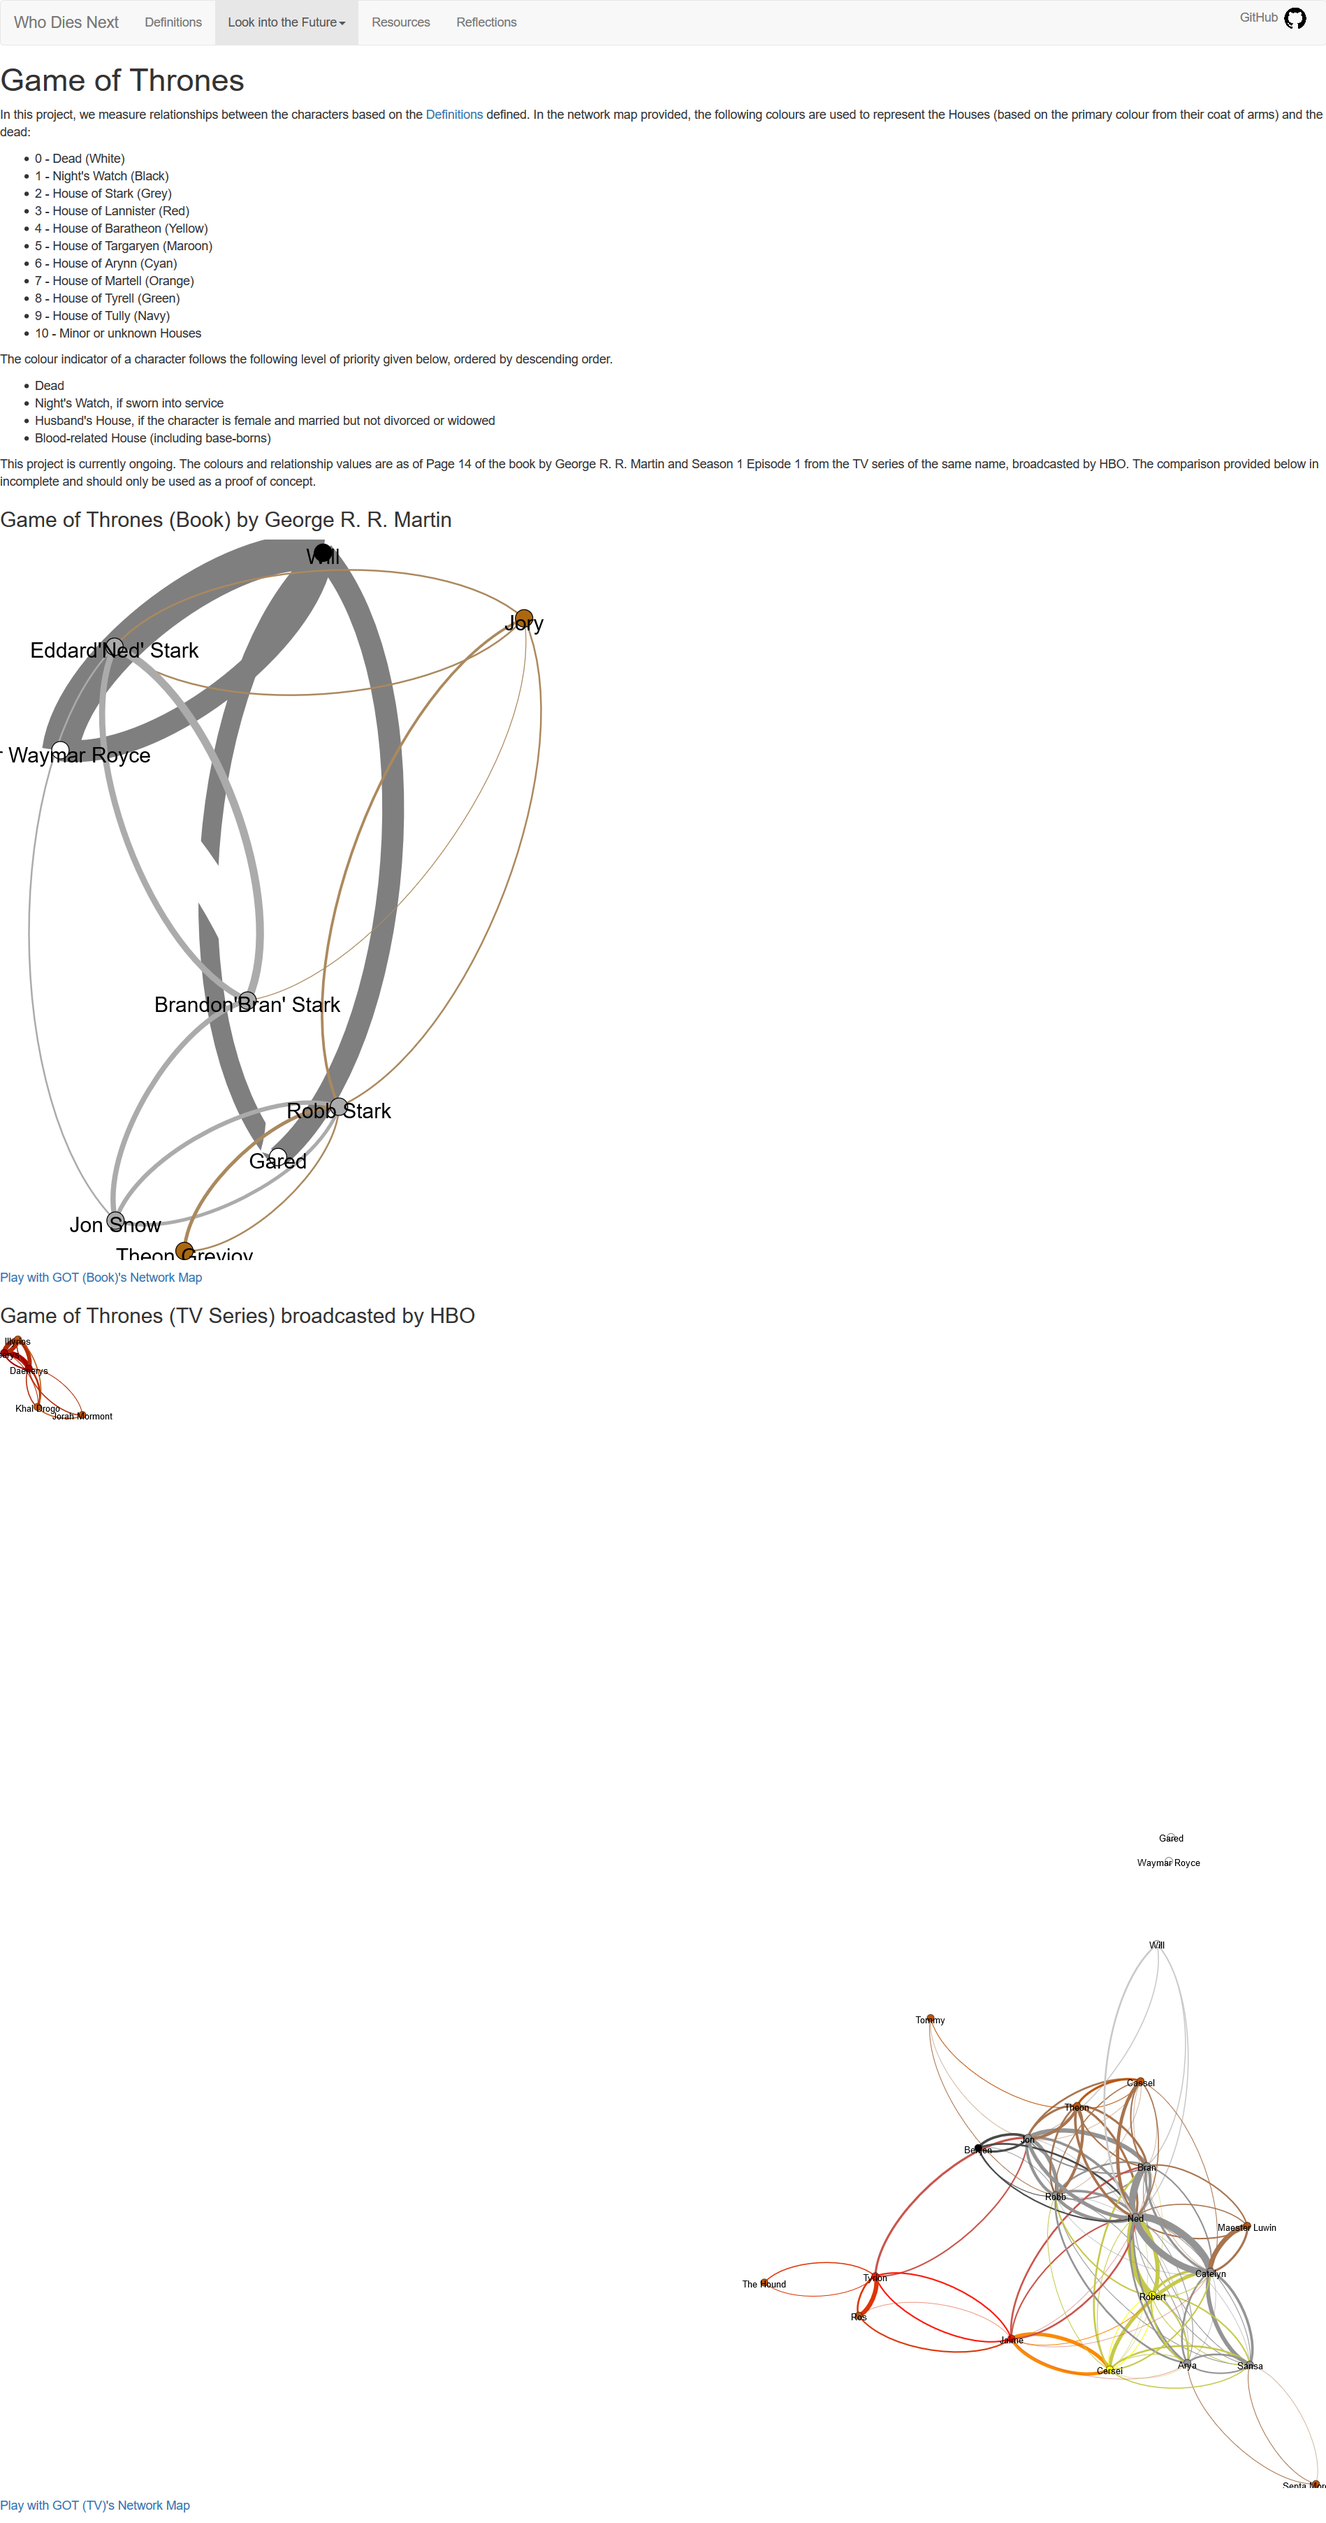
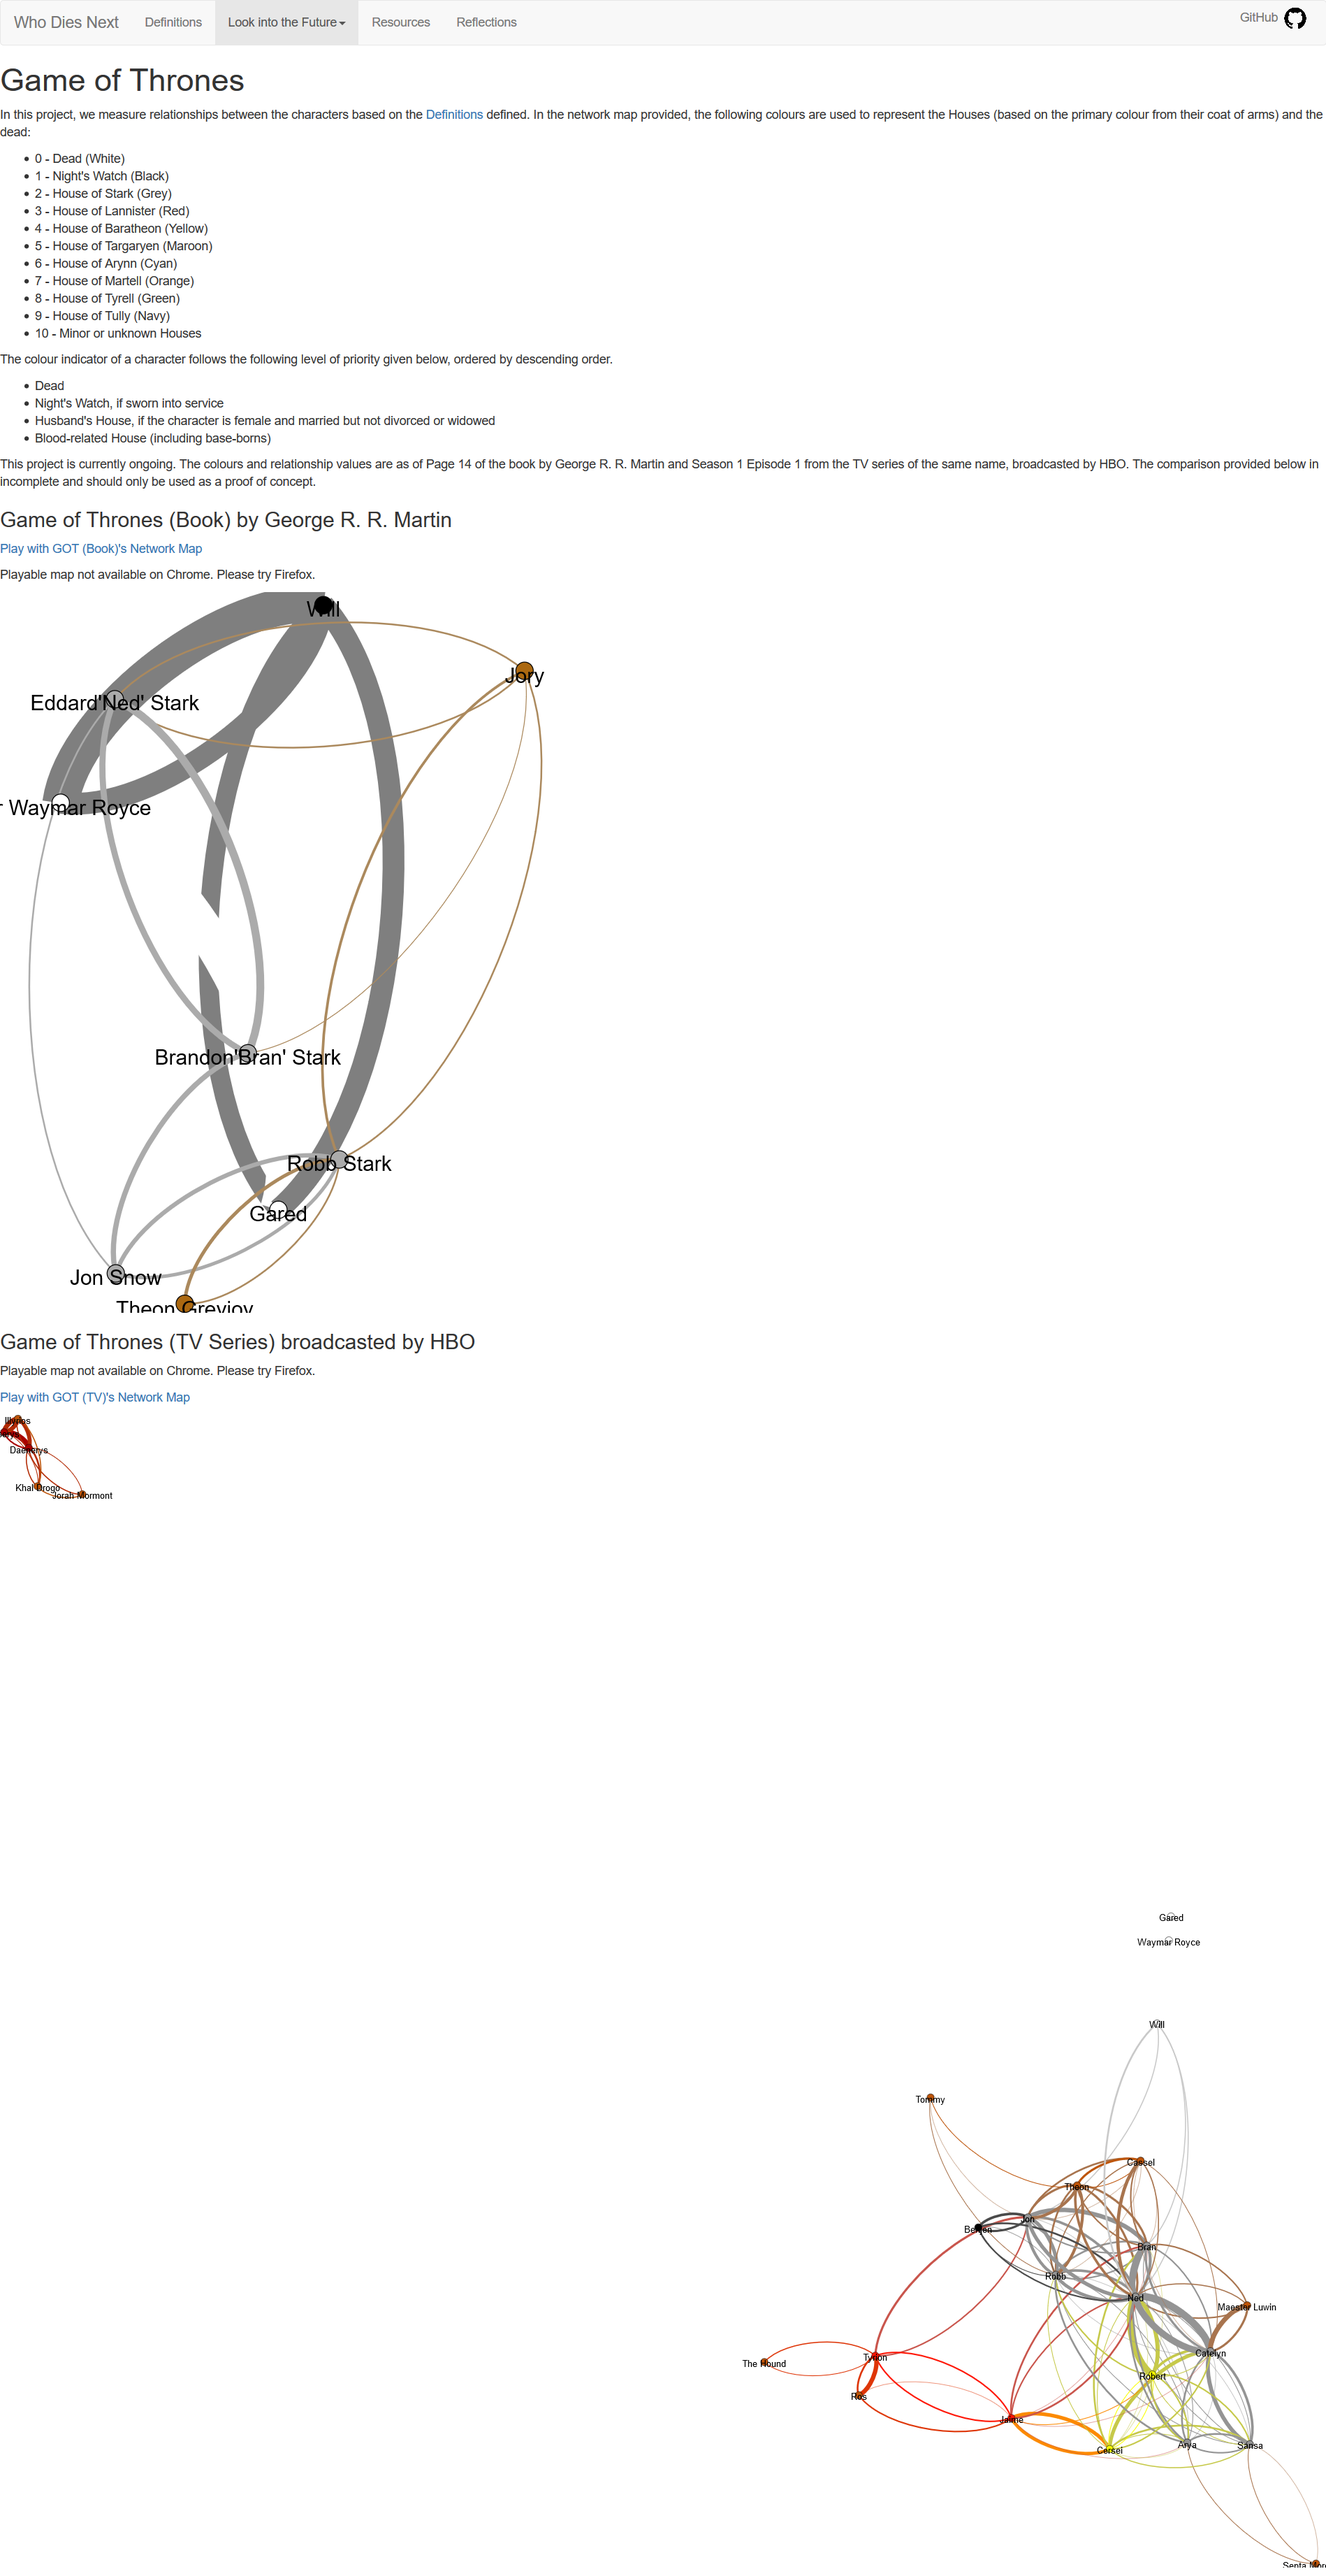
updated everything else

diff --git a/reflections.html b/reflections.html
@@ -106,8 +106,13 @@
     <p>With the growing capabilities of machine learning in artificial intelligence, I hope that this tool would be able to reach the stage where the user can upload a piece of text or video and the relevant network maps would be run-time generated. Computationally intensive and highly dependent on OCRs, voice and facial recognition, it is unlikely that Who Dies Next would be able to support this within the next 5 years, but I remain hopeful that this is the future that Who Dies Next would be working towards.</p>
 
     <h1>References</h1>
-    <p><a href="https://www.macalester.edu/~abeverid/thrones.html">A. Beveridge and J. Shan, "Network of Thrones," Math Horizons Magazine , Vol. 23, No. 4 (2016), pp. 18-22</a></p>
-    <p><a href=""></a></p>
+    <p><a href="https://www.macalester.edu/~abeverid/thrones.html">[1] A. Beveridge and J. Shan, "Network of Thrones," Math Horizons Magazine , Vol. 23, No. 4 (2016), pp. 18-22</a></p>
+
+    <p><a href="https://books.google.com.sg/books?redir_esc=y&id=nKdIB2Q58r0C&q=analysis#v=snippet&q=analysis&f=false">[2] Snyder M. H., “Analyzing Literature-to-Film Adaptations: A Novelist's Exploration and Guide”, A&amp;C Black, p 262</a></p>
+
+    <p><a href="https://infoscience.epfl.ch/record/210573/files/dh2015_infoscience.pdf">[3] Y. Rochat, “Character network analysis of Émile Zola’s Les Rougon-Macquart”, Digital Humanities 2015, EPFL-CONF-210573 (2015)/a></p>
+
+
     <!-- jQuery (necessary for Bootstrap's JavaScript plugins) -->
     <script src="https://ajax.googleapis.com/ajax/libs/jquery/1.12.4/jquery.min.js"></script>
     <!-- Include all compiled plugins (below), or include individual files as needed -->

diff --git a/got.html b/got.html
@@ -99,13 +99,14 @@
     <p>This project is currently ongoing. The colours and relationship values are as of Page 14 of the book by George R. R. Martin and Season 1 Episode 1 from the TV series of the same name, broadcasted by HBO. The comparison provided below in incomplete and should only be used as a proof of concept.</p>
 
     <h3>Game of Thrones (Book) by George R. R. Martin</h3>
-    <p><img src="got_book/got_book_map.svg" style="max-width: 100%"></p>
     <p><a href="got_book/got_book_map.html">Play with GOT (Book)'s Network Map</a></p>
-    <p></p>
+    <p> Playable map not available on Chrome. Please try Firefox. </p>
+    <p><img src="got_book/got_book_map.svg" style="max-width: 100%"></p>
 
     <h3>Game of Thrones (TV Series) broadcasted by HBO</h3>
-    <p><img src="got_tv/got_tv_map.svg" style="max-width: 100%"></p>
+    <p> Playable map not available on Chrome. Please try Firefox. </p>
     <p><a href="got_tv/got_tv_map.html">Play with GOT (TV)'s Network Map</a></p>
+    <p><img src="got_tv/got_tv_map.svg" style="max-width: 100%"></p>
 
     <!-- jQuery (necessary for Bootstrap's JavaScript plugins) -->
     <script src="https://ajax.googleapis.com/ajax/libs/jquery/1.12.4/jquery.min.js"></script>
